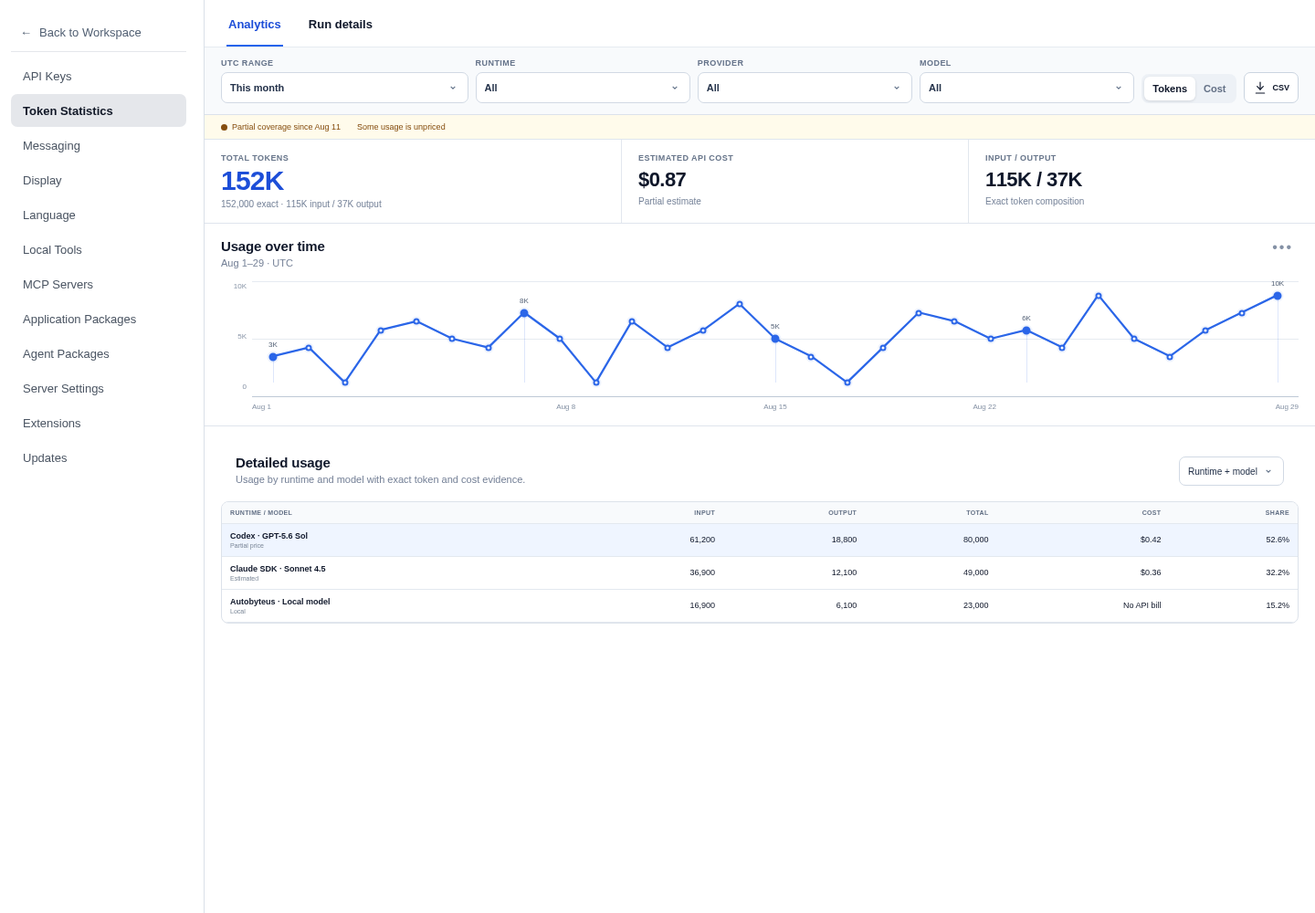
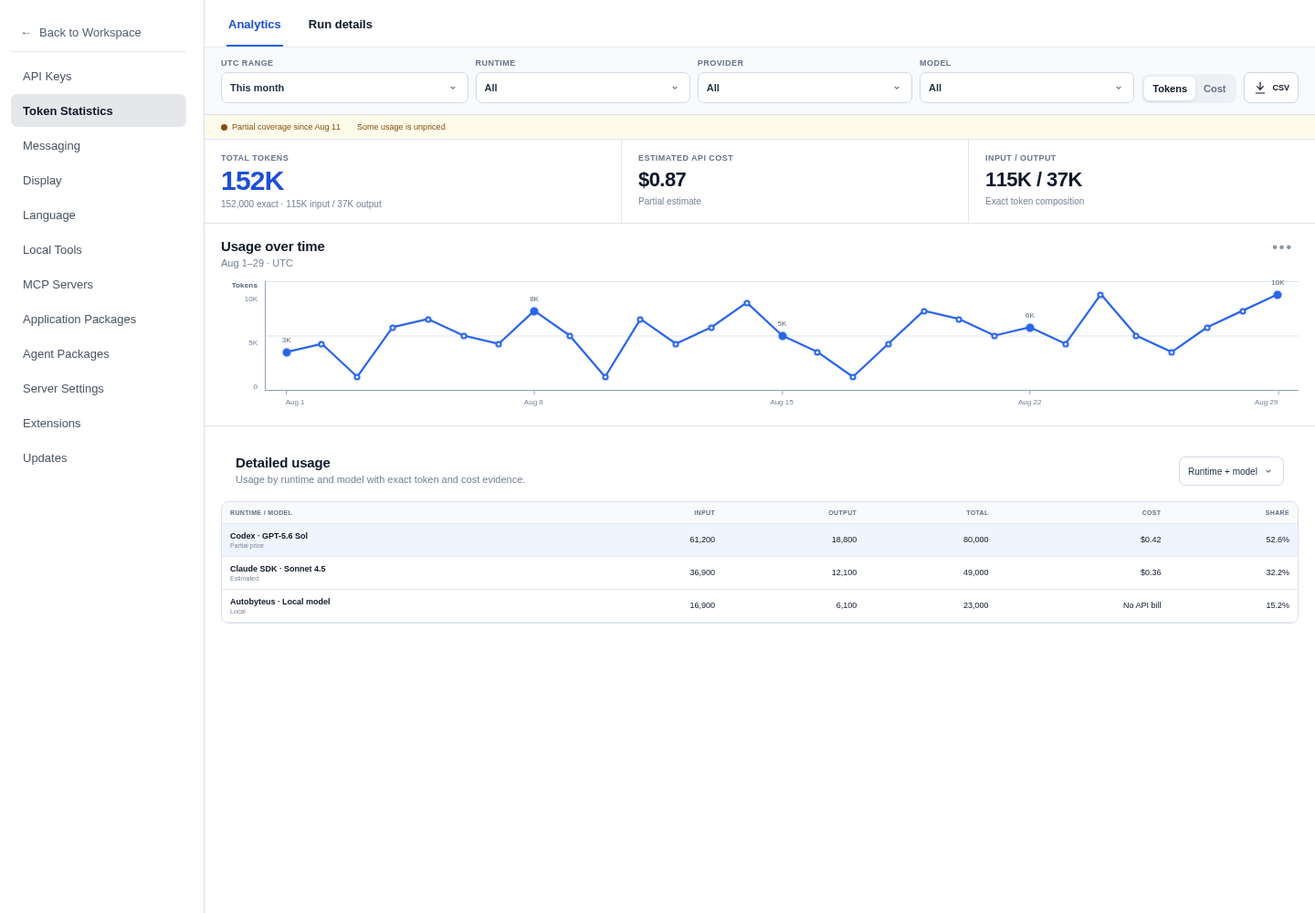
prototype: clarify trend chart axes

diff --git a/visualizers/REQPKG-TSUI-001/src/styles.css b/visualizers/REQPKG-TSUI-001/src/styles.css
@@ -133,22 +133,29 @@ h1 { font-size: clamp(28px, 3.5vw, 44px); letter-spacing: -.035em; line-height: 
 .comparison-note span { color: #718096; font-size: 9px; }
 .focus-analysis-grid { display: grid; gap: 14px; grid-template-columns: minmax(0, 1.55fr) minmax(250px, .75fr); margin-bottom: 14px; }
 .focus-analysis-grid.essentials-only { grid-template-columns: minmax(0, 1fr); }
-.trend-chart { display: grid; grid-template-columns: 34px minmax(0, 1fr); height: 190px; margin-top: 12px; }
+.trend-chart { display: grid; grid-template-columns: 48px minmax(0, 1fr); height: 190px; margin-top: 12px; }
 .trend-chart.compact { height: 142px; }
-.chart-y { color: #8a96a8; display: flex; flex-direction: column; font-size: 8px; justify-content: space-between; padding: 1px 6px 22px 0; text-align: right; }
+.chart-y-axis { color: #738096; display: flex; flex-direction: column; font-size: 8px; padding: 0 8px 22px 0; text-align: right; }
+.chart-y-axis > strong { color: #526176; font-size: 8px; font-weight: 750; letter-spacing: .02em; margin-bottom: 6px; white-space: nowrap; }
+.chart-y-labels { display: flex; flex: 1; flex-direction: column; justify-content: space-between; }
 .line-chart-shell { display: flex; flex-direction: column; min-width: 0; }
-.line-plot { background-image: linear-gradient(#e6ebf1 1px, transparent 1px); background-size: 100% 50%; border-bottom: 1px solid #bfc9d6; flex: 1; min-height: 0; position: relative; }
+.line-plot { background-image: linear-gradient(#dfe5ed 1px, transparent 1px); background-size: 100% 50%; border-bottom: 1px solid #91a0b4; border-left: 1px solid #91a0b4; flex: 1; min-height: 0; position: relative; }
 .trend-line-svg { inset: 0; overflow: visible; position: absolute; width: 100%; height: 100%; }
 .trend-line { fill: none; stroke: #2b66e8; stroke-linecap: round; stroke-linejoin: round; stroke-width: 2.25; }
 .trend-point-wrap { bottom: 12%; position: absolute; width: 0; }
 .trend-point { background: #fff; border: 2px solid #2b66e8; border-radius: 50%; box-shadow: 0 0 0 2px rgba(43, 102, 232, .08); display: block; height: 7px; position: absolute; transform: translate(-50%, -50%); width: 7px; }
 .trend-point-wrap.emphasis .trend-point { background: #2b66e8; height: 9px; width: 9px; }
-.trend-stem { background: rgba(43, 102, 232, .16); bottom: 0; left: 0; position: absolute; top: 4px; width: 1px; }
 .trend-point-value { color: #536176; font-size: 8px; left: 0; position: absolute; top: -18px; transform: translateX(-50%); white-space: nowrap; }
-.line-x-labels { color: #8390a3; display: grid; font-size: 8px; grid-template-columns: repeat(5, 1fr); padding-top: 6px; }
-.line-x-labels span { text-align: center; white-space: nowrap; }
-.line-x-labels span:first-child { text-align: left; }
-.line-x-labels span:last-child { text-align: right; }
+.line-x-labels { color: #738096; font-size: 8px; height: 22px; position: relative; }
+.line-x-labels span { padding-top: 8px; position: absolute; transform: translateX(-50%); white-space: nowrap; }
+.line-x-labels span::before { background: #91a0b4; content: ""; height: 4px; left: 50%; position: absolute; top: 0; width: 1px; }
+.line-x-labels span:nth-child(1) { left: 2%; transform: none; }
+.line-x-labels span:nth-child(1)::before { left: 0; }
+.line-x-labels span:nth-child(2) { left: 26%; }
+.line-x-labels span:nth-child(3) { left: 50%; }
+.line-x-labels span:nth-child(4) { left: 74%; }
+.line-x-labels span:nth-child(5) { left: 98%; transform: translateX(-100%); }
+.line-x-labels span:nth-child(5)::before { left: 100%; }
 .share-track { background: #e8edf4; border-radius: 99px; grid-column: 1 / -1; height: 7px; overflow: hidden; }
 .share-track span { background: #2563eb; border-radius: inherit; display: block; height: 100%; }
 .text-action { align-items: center; background: transparent; border: 0; color: #2563eb; cursor: pointer; display: inline-flex; font-size: 10px; font-weight: 700; gap: 6px; margin-top: 15px; padding: 0; }

diff --git a/visualizers/REQPKG-TSUI-001/src/App.tsx b/visualizers/REQPKG-TSUI-001/src/App.tsx
@@ -282,19 +282,21 @@ function TrendChart({ compact = false, filtered, metric, full }: { compact?: boo
   const formatValue = (value: number) => metric === "tokens" ? `${value}K` : `$${value.toFixed(2)}`;
   const exactSeries = points.map((point) => `Aug ${point.day}: ${metric === "tokens" ? `${point.value * 1000} tokens` : `$${point.value.toFixed(4)}`}`).join(", ");
   return <div className={`trend-chart ${compact ? "compact" : ""}`}>
-    <div className="chart-y"><span>{formatValue(max)}</span><span>{formatValue(max / 2)}</span><span>0</span></div>
-    <div className="line-chart-shell" role="img" aria-label={`${metric === "tokens" ? "Token" : "Estimated cost"} usage across 29 daily UTC buckets. ${exactSeries}`}>
+    <div aria-hidden="true" className="chart-y-axis">
+      <strong>{metric === "tokens" ? "Tokens" : "Cost (USD)"}</strong>
+      <div className="chart-y-labels"><span>{formatValue(max)}</span><span>{formatValue(max / 2)}</span><span>0</span></div>
+    </div>
+    <div className="line-chart-shell" role="img" aria-label={`${metric === "tokens" ? "Token" : "Estimated cost"} usage across 29 daily UTC buckets. X-axis: date in UTC. Y-axis: ${metric === "tokens" ? "tokens" : "estimated cost in USD"}. ${exactSeries}`}>
       <div className="line-plot">
         <svg aria-hidden="true" className="trend-line-svg" preserveAspectRatio="none" viewBox="0 0 100 100">
           <path className="trend-line" d={linePath} vectorEffect="non-scaling-stroke" />
         </svg>
         {points.map((point) => <span className={`trend-point-wrap ${emphasisDays.has(point.day) ? "emphasis" : ""}`} key={point.day} style={{ left: `${point.x}%`, top: `${point.y}%` }}>
-          {emphasisDays.has(point.day) && <span className="trend-stem" />}
           {emphasisDays.has(point.day) && point.value > 0 && <span className="trend-point-value">{formatValue(point.value)}</span>}
           <span className="trend-point" />
         </span>)}
       </div>
-      <div className="line-x-labels"><span>Aug 1</span><span>Aug 8</span><span>Aug 15</span><span>Aug 22</span><span>Aug 29</span></div>
+      <div aria-hidden="true" className="line-x-labels"><span>Aug 1</span><span>Aug 8</span><span>Aug 15</span><span>Aug 22</span><span>Aug 29</span></div>
     </div>
   </div>;
 }

diff --git a/tickets/in-progress/REQPKG-TSUI-001/prototype-ticket.md b/tickets/in-progress/REQPKG-TSUI-001/prototype-ticket.md
@@ -28,9 +28,9 @@
 - Product acceptance result and date: Accepted 2026-08-29; see `/home/autobyteus/workspace/autobyteus-web-prototype-worktrees/REQPKG-TSUI-001/tickets/in-progress/REQPKG-TSUI-001/baseline-acceptance.md`.
 - Accepted Token Statistics baseline revision: `6ba98942c669329f70ba902db4a2880375ad52ad`
 - Baseline metadata revision: `16638137bdb8ebe627507dac6c3c8bdbc5edf9d6`
-- Prototype revision containing the current `RV-005` visualizer, feasibility audit, and evidence: `fc6bace64c964ddcd1642a2b08f5a5e61703a86f`
+- Prototype revision containing the current `RV-006` visualizer, feasibility audit, and evidence: `Pending RV-006 commit`
 - Ticket folder: `/home/autobyteus/workspace/autobyteus-web-prototype-worktrees/REQPKG-TSUI-001/tickets/in-progress/REQPKG-TSUI-001`
-- Integration target and result: The accepted baseline commits `6ba98942c669329f70ba902db4a2880375ad52ad` and `16638137bdb8ebe627507dac6c3c8bdbc5edf9d6` are on `origin/personal`. The exploratory `RV-005` work remains only on `prototype/reqpkg-tsui-001` while the canonical Requirement Impact is unresolved.
+- Integration target and result: The accepted baseline commits `6ba98942c669329f70ba902db4a2880375ad52ad` and `16638137bdb8ebe627507dac6c3c8bdbc5edf9d6` are on `origin/personal`. The exploratory `RV-006` work remains only on `prototype/reqpkg-tsui-001` while the canonical Requirement Impact is unresolved.
 - Cleanup result: Deferred. Retain the active worktree and review runtimes while status is `Blocked` on Requirements Engineering revision.
 
 ## Runtime Isolation
@@ -48,29 +48,29 @@
 
 - UI/UX specification: Not applicable in exploratory Requirements Visualization mode.
 - Requirements-visualization brief: `/home/autobyteus/workspace/autobyteus-web-prototype-worktrees/REQPKG-TSUI-001/tickets/in-progress/REQPKG-TSUI-001/requirements-visualization-brief.md`
-- Requirements-visualization design plan: `/home/autobyteus/workspace/autobyteus-web-prototype-worktrees/REQPKG-TSUI-001/tickets/in-progress/REQPKG-TSUI-001/requirements-visualization-design-plan.md`; revision `RV-005`, status `Ready to Build`.
-- Requirements-visualization review: `/home/autobyteus/workspace/autobyteus-web-prototype-worktrees/REQPKG-TSUI-001/tickets/in-progress/REQPKG-TSUI-001/requirements-visualization-review.md`; revision `RV-005`, status `Ready for Review — Requirement Impact`.
+- Requirements-visualization design plan: `/home/autobyteus/workspace/autobyteus-web-prototype-worktrees/REQPKG-TSUI-001/tickets/in-progress/REQPKG-TSUI-001/requirements-visualization-design-plan.md`; revision `RV-006`, status `Ready to Build`.
+- Requirements-visualization review: `/home/autobyteus/workspace/autobyteus-web-prototype-worktrees/REQPKG-TSUI-001/tickets/in-progress/REQPKG-TSUI-001/requirements-visualization-review.md`; revision `RV-006`, status `Ready for Review — Requirement Impact`.
 - Current-contract feasibility audit: `/home/autobyteus/workspace/autobyteus-web-prototype-worktrees/REQPKG-TSUI-001/tickets/in-progress/REQPKG-TSUI-001/implementation-feasibility-audit.md`; classification `Achievable with current source-pin data and GraphQL contracts after correction`.
-- Requirement-impact record: `/home/autobyteus/workspace/autobyteus-web-prototype-worktrees/REQPKG-TSUI-001/tickets/in-progress/REQPKG-TSUI-001/requirement-impact.md`; `RI-001` records the user-directed removals represented in `RV-005` and still requires canonical Requirements Engineering revision.
+- Requirement-impact record: `/home/autobyteus/workspace/autobyteus-web-prototype-worktrees/REQPKG-TSUI-001/tickets/in-progress/REQPKG-TSUI-001/requirement-impact.md`; `RI-001` records the user-directed removals retained in `RV-006` and still requires canonical Requirements Engineering revision.
 - Visualizer source: `/home/autobyteus/workspace/autobyteus-web-prototype-worktrees/REQPKG-TSUI-001/visualizers/REQPKG-TSUI-001`
 - Future-state visual-reference directory: `/home/autobyteus/workspace/autobyteus-web-prototype-worktrees/REQPKG-TSUI-001/tickets/in-progress/REQPKG-TSUI-001/visual-references`
 - Current-state comparison evidence: `/home/autobyteus/workspace/autobyteus-web-prototype-worktrees/REQPKG-TSUI-001/evidence/token-statistics-refresh`
 - Visualizer template revision: Agent repository `a6af4fd689a1c6cb1ec1f06c07d0b6011a8c8679`; template last changed in `e9a158b4cb80d4fa54d0c495d6ba862a34cf874d`.
 - Active capabilities: React, Vite, TypeScript, CSS, inline SVG, deterministic local state, Playwright browser validation.
 - Omitted optional capabilities: Motion, Three.js, React Three Fiber, and Drei; the comparison does not depend on animation or spatial reasoning.
-- Validation commands and results: `npm run build` passed; `npm run validate` passed `18/18`; Chromium desktop `1440x1000`, constrained composition, actual narrow `390x844`, UTC/English/light/reduced-motion; zero browser errors; no page-level narrow overflow; named controls; no redundant `h1`; zero active animations; local export status; keyboard navigation resize; Run-details model columns limited to current-query fields; Usage over time verified as 29 daily points, one line, and zero bars; both directions contain zero forbidden prior/comparison/driver wording.
+- Validation commands and results: `npm run build` passed; `npm run validate` passed `18/18`; Chromium desktop `1440x1000`, constrained composition, actual narrow `390x844`, UTC/English/light/reduced-motion; zero browser errors; no page-level narrow overflow; named controls; no redundant `h1`; zero active animations; local export status; keyboard navigation resize; Run-details model columns limited to current-query fields; Usage over time verified with explicit X/Y axes, 29 daily points, one line, zero bars, and zero point stems; both directions contain zero forbidden prior/comparison/driver wording.
 - Validation evidence: `/home/autobyteus/workspace/autobyteus-web-prototype-worktrees/REQPKG-TSUI-001/tickets/in-progress/REQPKG-TSUI-001/validation`; browser `18/18` pass and pinned-source contract audit `PASS`.
-- User-confirmation reference: User feedback on 2026-08-29 rejected visible Requirements Visualization metadata/chrome (`RV-002`), required explicit proof that downstream implementation can use the current data structure without invented facts (`RV-003`), preferred a point-marked line/curve over vertical bars (`RV-004`), and explicitly removed prior-period and dominant/usage-driver presentation (`RV-005`).
+- User-confirmation reference: User feedback on 2026-08-29 rejected visible Requirements Visualization metadata/chrome (`RV-002`), required explicit current-contract feasibility (`RV-003`), preferred a point-marked line over bars (`RV-004`), removed prior-period and dominant/usage-driver presentation (`RV-005`), and requested conventional X/Y axes without unexplained vertical marks (`RV-006`).
 - Mocked boundaries and known limitations: Synthetic locally resettable fixtures; no production runtime or persistent export. Loading/error/empty/local/mixed-currency/localization/custom-date/sorting permutations remain established by the accepted baseline but are not exhaustively re-rendered in this focused visual comparison. This Requirements Visualization must not be treated as a complete implementation-ready final prototype.
 
 ## Outcome And Handoff
 
 - Current outcome: `Requirement Impact`
-- Completed behavior and evidence: Accepted Token Statistics baseline is durably integrated through `origin/personal` revision `16638137bdb8ebe627507dac6c3c8bdbc5edf9d6`. `RV-005` keeps the clean product-only URLs and point-marked daily line, removes the prior-period percentage/unavailable state, removes the standalone dominant-contributor panel, and replaces visible `driver` terminology with `Detailed usage`; `18/18` browser checks pass.
+- Completed behavior and evidence: Accepted Token Statistics baseline is durably integrated through `origin/personal` revision `16638137bdb8ebe627507dac6c3c8bdbc5edf9d6`. `RV-006` keeps the stripped `RV-005` hierarchy and gives the point-marked daily line explicit labeled axes and date ticks while removing the confusing short vertical point guides; `18/18` browser checks pass.
 - First-view simplicity evidence: Product-only DOM and screenshots contain no visualization heading, direction/journey selector, selection strip, reset control, explanatory footer, prior-period callout, dominant-contributor panel, or `driver` wording. Monthly usage, cost/status, input/output composition, and daily trend are immediately scannable.
 - Motion/comprehension evidence: No decision-relevant motion; stable states persist. Automated checks establish the interaction/result relationship, but human preference and comprehension remain unconfirmed.
 - Remaining product decisions: Canonical labels/definitions for uncached/standard input, cached input, cache hit rate, and output; whether runtime/provider/model grouping and `Detailed usage` remain visible or move behind deeper disclosure; existing `DEC-001`–`DEC-004` consequences.
-- Next expected action: Requirements Engineering records the user-directed removals in the affected requirements from `RI-001` and resolves the remaining cache/input terminology and grouping scope. Do not treat `RV-005` as a final implementation direction.
+- Next expected action: Requirements Engineering records the user-directed removals in the affected requirements from `RI-001` and resolves the remaining cache/input terminology and grouping scope. Do not treat `RV-006` as a final implementation direction.
 - Handoff outcome from `get_handoff_rules`: `Requirement Impact` matched the Requirements Engineering resolution route.
 - Matched recipient address, when a rule applies: `/requirements_engineering_team/requirements_engineer`
 - Return context when no matching rule applies: Return the review-ready package to the user or calling workflow.

diff --git a/tickets/in-progress/REQPKG-TSUI-001/requirements-visualization-design-plan.md b/tickets/in-progress/REQPKG-TSUI-001/requirements-visualization-design-plan.md
@@ -1,29 +1,29 @@
 # Requirements Visualization Design Plan
 
 - Package / ticket ID: `REQPKG-TSUI-001`
-- Revision: `RV-005`
-- Decision question: Does a stripped hierarchy centered on monthly totals and daily Tokens/Cost trend better match the user's actual questions than contributor and prior-period callouts?
-- One-sentence user takeaway: The user can immediately read monthly tokens, estimated cost, and daily change without first interpreting `driver` terminology or an unwanted period-over-period percentage.
-- Chosen visual form: Two clean product-only density treatments selected by URL, both sharing the same stripped information hierarchy. Usage over time is a line chart with point markers; prior-period comparison and the standalone contributor callout are absent; exact identity evidence uses the secondary label `Detailed usage`.
+- Revision: `RV-006`
+- Decision question: Can the daily Tokens/Cost trend read as a conventional chart immediately, with unmistakable X and Y axes and no unexplained vertical marks?
+- One-sentence user takeaway: The user can identify date on the X-axis and Tokens or Cost on the Y-axis immediately, while every daily point remains exact and inspectable.
+- Chosen visual form: Two clean product-only density treatments selected by URL, both sharing the same stripped information hierarchy. Usage over time uses a labeled Y-axis, a visible baseline and date ticks on the X-axis, horizontal value guides, one point per returned bucket, and no short vertical point stems.
 - Why this is the smallest suitable representation: User feedback establishes that persistent visualization chrome obscures the product decision. Two clean URLs preserve exact composition and let the product itself carry the comparison; state-specific evidence is reached through the proposed controls rather than an external journey navigator.
-- Alternatives considered and rejected: Persistent review headers/selectors were rejected in RV-001; a floating review drawer still adds non-product surface; static screenshots remove interaction; side-by-side pages shrink content; animation is irrelevant. Vertical bars were rejected in RV-004. In RV-005, green/positive prior-period callouts and contributor/`driver` callouts are rejected because the user does not consider them primary and the terminology requires explanation.
+- Alternatives considered and rejected: Persistent review chrome, bars, prior/comparison callouts, and contributor/`driver` callouts remain rejected by earlier revisions. Floating Y values without a vertical axis are rejected because they look detached from the plot. Short point-to-baseline stems are rejected because they resemble accidental dotted or bar-like marks rather than useful trend evidence.
 - Implementation technology selected after the design gate: Ticket-scoped React/Vite/TypeScript visualizer copied from the required scaffold, using plain React state and CSS only. `motion`, Three.js, React Three Fiber, and Drei remain installed but intentionally unused.
 
 ## Visible Model
 
 - Initial view: A full-viewport Settings > Token Statistics product surface, Direction A by default, with monthly total, cost/status, coverage, daily trend, and compact controls only in the primary canvas.
-- Actors or objects to show: Settings navigation and manual resize handle; Analytics/Run-details tabs; compact product controls; monthly total and cost/status; a daily bucket line with point markers; secondary `Detailed usage` evidence.
+- Actors or objects to show: Settings navigation and manual resize handle; Analytics/Run-details tabs; compact product controls; monthly total and cost/status; a daily bucket line with point markers, labeled Y-axis, horizontal guides, and a date-ticked X-axis; secondary `Detailed usage` evidence.
 - States to show: Partial coverage; full coverage; filters open; exact usage evidence open; Run details; constrained width.
 - Relationship or causal distinction: Separate clean Direction A/B URLs change density while the stripped priority and data truth remain fixed; product-native actions expose filter/evidence/Run-details state.
-- Trend truth rule: Each marker corresponds to one exact returned bucket. The connecting line supports trend perception but does not replace the exact bucket value or accessible text alternative. No invented interpolation is used for accounting.
-- Details intentionally hidden or deferred: Secondary filter fields remain behind `Filters`; runtime/model identity is labeled `Detailed usage` and accounting metadata remains behind row evidence; Run child/member rows remain behind expansion; prior-period comparison is intentionally absent from RV-005 per explicit user direction.
+- Trend truth rule: Each marker corresponds to one exact returned bucket. The connecting line supports trend perception but does not replace the exact bucket value or accessible text alternative. The axis scale is derived from the displayed fixture, metric switching changes the Y-axis unit, and no invented interpolation is used for accounting.
+- Details intentionally hidden or deferred: Secondary filter fields remain behind `Filters`; runtime/model identity is labeled `Detailed usage` and accounting metadata remains behind row evidence; Run child/member rows remain behind expansion; prior-period comparison remains intentionally absent in RV-006 per explicit user direction.
 
 ## Motion Design
 
 - Motion purpose, or why motion is not needed: No decision-relevant motion is needed. Immediate, labeled stable-state replacement makes composition comparison easier and avoids requiring memory of animation phases.
 - Motion phases and order: Not applicable; only brief nonessential CSS hover/focus feedback.
 - Teaching pace and consequence dwell: Stable states remain until the reviewer changes direction or journey.
-- Pause, replay, reset, step-through, slow, or skip controls: Not applicable to stable-state comparison. Reloading a clean URL restores its default partial/no-comparison fixture and navigation width.
+- Pause, replay, reset, step-through, slow, or skip controls: Not applicable to stable-state comparison. Reloading a clean URL restores its default partial-coverage fixture and navigation width.
 - Reduced-motion and stable-state equivalent: All decision meaning is already available in stable states; `prefers-reduced-motion` disables cosmetic transitions.
 - Which changes must not happen instantaneously: None; no causal path is being taught.
 
@@ -42,7 +42,7 @@
 - What text is necessary to name the model without repeating it? Product labels and truthful status copy only. Direction/tradeoff and mock-boundary text stays outside the rendered product in the review package.
 - How can the user pause, replay, reset, or understand the result without motion? States never auto-advance; refresh restores a deterministic clean product state, and separate URLs preserve each direction without hidden animation history.
 - Can a first-time observer follow the full motion sequence at the chosen teaching pace? Not applicable; no teaching motion is used.
-- What will demonstrate that the user understood the intended relationship? The reviewer can identify monthly tokens, estimated cost, and the daily Tokens/Cost trend without asking what a `driver` is, then decide whether `Detailed usage` is still useful as secondary evidence.
+- What will demonstrate that the user understood the intended relationship? The reviewer can identify date on X, the selected Tokens/Cost unit on Y, and the daily trend without asking what the floating numbers or short vertical marks mean.
 
 ## Truthful Boundaries
 
@@ -60,5 +60,5 @@
 - [x] Decision-relevant motion is slow enough to follow, holds the consequence, and avoids unrelated simultaneous movement. (No decision-relevant motion is used; stable state persists.)
 - [x] The same decision-relevant meaning is available without motion or 3D.
 - Status: `Ready to Build`
-- Remaining design concern: Canonical requirements still preserve dominant-contributor and prior-comparison behavior; RV-005 is user-directed Requirement Impact evidence until Requirements Engineering updates them. Final implementation must retain exact bucket/accounting truth and any secondary evidence that remains required.
-- Evidence for the decision: The user explicitly requested removal of the 28% prior-period callout and dominant/usage-driver wording after asking what those concepts meant. The accepted baseline and feasibility audit preserve the current data truth while Requirements Engineering resolves the canonical impact.
+- Remaining design concern: Canonical requirements still preserve dominant-contributor and prior-comparison behavior; RV-006 retains the user-directed Requirement Impact evidence until Requirements Engineering updates them. Final implementation must retain exact bucket/accounting truth and any secondary evidence that remains required.
+- Evidence for the decision: The user explicitly described the missing Y-axis as strange and called out the small vertical marks as confusing. Conventional axes improve chart literacy without changing the data contract or accounting truth.

diff --git a/tickets/in-progress/REQPKG-TSUI-001/requirements-visualization-review.md b/tickets/in-progress/REQPKG-TSUI-001/requirements-visualization-review.md
@@ -1,15 +1,15 @@
 # Requirements Visualization Review
 
 - Package / ticket ID: `REQPKG-TSUI-001`
-- Visualization revision: `RV-005`
-- Product revision containing the current visualizer and evidence: `fc6bace64c964ddcd1642a2b08f5a5e61703a86f`
+- Visualization revision: `RV-006`
+- Product revision containing the current visualizer and evidence: `Pending RV-006 commit`
 - Review URLs:
   - Direction A — Focused hierarchy: `http://127.0.0.1:3262/?direction=focus`
   - Direction B — Dense explorer: `http://127.0.0.1:3262/?direction=dense`
 - Source path: `/home/autobyteus/workspace/autobyteus-web-prototype-worktrees/REQPKG-TSUI-001/visualizers/REQPKG-TSUI-001`
 - Design plan path: `/home/autobyteus/workspace/autobyteus-web-prototype-worktrees/REQPKG-TSUI-001/tickets/in-progress/REQPKG-TSUI-001/requirements-visualization-design-plan.md`
 - Requirements / behavior IDs: `BEH-001`–`BEH-006`; `REQ-001`–`REQ-014`; `AC-001`–`AC-014`; `DEC-001`–`DEC-004`
-- Decision question: Does the stripped hierarchy make monthly totals, cost, and daily Tokens/Cost usage immediately understandable without prior-period or contributor terminology?
+- Decision question: Does the stripped hierarchy make monthly totals and the daily Tokens/Cost trend immediately understandable with unmistakable conventional axes?
 - Design gate status: `Ready to Build`
 - Review status: `Ready for Review — Requirement Impact`
 - Reviewer / feedback source: User feedback received 2026-08-29; Requirements Engineering owns the canonical clarification loop.
@@ -20,19 +20,21 @@
 - States: Partial coverage; full coverage; filtered one-result state; exact evidence disclosed; Run details with expanded team rows; constrained desktop composition; actual `390x844` narrow viewport.
 - Interactions: UTC range selection; compact filter disclosure/application; Tokens/Cost controls; local export feedback; row evidence disclosure; Analytics/Run-details tab transition; task/model grouping; team-row expansion; pointer/keyboard Settings-navigation resizing.
 - User-directed removals: The `+28.2% from prior period` callout, unavailable prior-period messaging, the standalone dominant-contributor panel, and all visible `driver` terminology are absent in both directions and every validated state.
+- Axis correction: The trend has a labeled Tokens/Cost Y-axis with `max / midpoint / 0` values, a visible vertical axis line, a visible horizontal baseline, and five date ticks on the X-axis. The previously confusing short vertical point guides are removed.
 - Remaining secondary identity evidence: The exact runtime/model table remains under the plain label `Detailed usage`; opening a row reveals input, output, cache-read, thinking, cost status, and currency evidence.
 - Animation or 3D behavior: None. The decision is compositional and every state is stable.
 - Motion pacing and consequence dwell: Not applicable; changed states remain visible until the user acts again or reloads.
 - Pause / replay / reset / step / slow controls exercised: Not applicable for motion. Reloading either clean URL restores its deterministic partial-coverage state; deterministic `scene` parameters support evidence capture.
 - Mocked boundaries: Synthetic totals, costs, daily buckets, coverage/pricing statuses, filters, detailed-usage rows, runs, CSV feedback, and navigation width. No production query, persistence, accounting recomputation, customer data, credential, or live service is used.
 - Accessibility or non-motion fallback: All controls are named; tabs and metric groups expose roles/state; the navigation separator is keyboard operable; export uses a live status; reduced-motion mode has zero active animation; meaning does not depend on motion.
-- Plan fidelity or intentional deviations: Matches design plan `RV-005`. The product-only treatment, current-contract correction, and point-marked daily line remain; the rejected prior/contributor callouts are removed, the chart receives the full analytical width, and identity evidence is secondary.
+- Plan fidelity or intentional deviations: Matches design plan `RV-006`. The product-only treatment, current-contract correction, point-marked daily line, and stripped hierarchy remain; conventional axes replace floating Y values and the point stems are absent.
 
 ## Validation Evidence
 
 - Browser entry points: `http://127.0.0.1:3262/?direction=focus` and `http://127.0.0.1:3262/?direction=dense`
-- Scenarios exercised: `18/18` checks passed in Chromium with UTC timezone, English locale, light theme, and reduced motion. Both directions were opened through clean URLs; decision states were exercised with product-native controls; the Run-details model table is contract-limited; the trend is a 29-point daily line with zero bars.
+- Scenarios exercised: `18/18` checks passed in Chromium with UTC timezone, English locale, light theme, and reduced motion. Both directions were opened through clean URLs; decision states were exercised with product-native controls; the Run-details model table is contract-limited; the trend is a 29-point daily line with explicit X/Y axes, zero bars, and zero point stems.
 - Language-removal evidence: `VAL-017` audits both clean directions and found zero instances of `Dominant driver`, `Usage drivers`, `Leading drivers`, `Prior period`, unavailable-comparison wording, or `+28.2%`.
+- Axis evidence: `VAL-016` verifies the Y-axis title and three Y labels, five UTC date ticks, solid left/bottom plot axes, accessible X/Y axis descriptions, 29 points, one line, zero bars, and zero short point stems.
 - Responsive checks: Desktop `1440x1000`; constrained product composition; actual `390x844` viewport with `documentWidth === viewport` and critical controls/evidence retained.
 - Reset / replay checks: Each direction/state URL is deterministic; clean direction URLs reload to the stable populated partial-coverage fixture.
 - First-view simplicity check: DOM and screenshot inspection confirm that the visible page contains only the Settings product surface. Monthly tokens, estimated cost/status, input/output composition, and the daily line dominate before `Detailed usage`.
@@ -55,7 +57,7 @@
 
 ## Feedback And Next Action
 
-- Feedback completed in this revision: Remove the `28% from prior period` callout; remove the standalone dominant-contributor concept; stop using `driver` wording; keep the real user questions visually dominant.
+- Feedback completed in this revision: Add an explicit Y-axis and conventional X-axis to the daily line, and remove the small confusing vertical marks. The earlier prior-period and contributor/`driver` removals remain intact.
 - Requirement or scope impact: `Requirement Impact RI-001`. The user decision conflicts with current `REQ-002`, `REQ-004`–`REQ-006`, `REQ-012` and related acceptance criteria that still prescribe dominant-contributor and prior-comparison behavior.
 - Next review question: Is `Detailed usage` useful as secondary exact identity evidence, or should it be deferred further while token/cache composition becomes the next primary design decision?
 - Next expected action: Requirements Engineering records the user’s removals in the canonical requirements and resolves the remaining cache/input terminology and grouping scope. Product Prototyper must not describe `RV-005` as final normative approval.

diff --git a/tickets/in-progress/REQPKG-TSUI-001/requirements-visualization-brief.md b/tickets/in-progress/REQPKG-TSUI-001/requirements-visualization-brief.md
@@ -1,10 +1,10 @@
 # Requirements Visualization Brief
 
 - Package / ticket ID: `REQPKG-TSUI-001`
-- Revision: `RV-005`
+- Revision: `RV-006`
 - Mode: Requirements Visualization
 - Requirements / behavior / acceptance-criteria IDs: `BEH-001`–`BEH-006`; `REQ-001`–`REQ-014`; `AC-001`–`AC-014`; decisions `DEC-001`–`DEC-004`
-- Decision question: Does a stripped Token Statistics hierarchy—monthly totals and daily trend first, with contributor detail secondary and no prior-period percentage or `driver` terminology—match the user's actual questions?
+- Decision question: Does the stripped Token Statistics hierarchy remain immediately legible when the daily trend uses conventional labeled axes and removes unexplained vertical point guides?
 - User or stakeholder who must understand or decide: The user, supported by Requirements Engineering.
 - Critical journey or interaction to visualize: Open two clean product-only URLs—one per direction—against the same populated partial-coverage fixture, then use only product-native controls to exercise full coverage, filters, exact evidence, Run details, and constrained-width behavior before selecting a direction.
 - States that must be shown: Populated partial coverage; full coverage; compact filter interaction; exact usage evidence; Run-details transition; constrained-width composition.
@@ -16,12 +16,12 @@
 - Existing frontend / prototype repository context: Accepted current-experience baseline `6ba98942c669329f70ba902db4a2880375ad52ad` in Product worktree `/home/autobyteus/workspace/autobyteus-web-prototype-worktrees/REQPKG-TSUI-001`, sourced from `origin/personal` pin `9d0fd7c570d58da1af2c7a40279327c8a20a8093`.
 - Success signal: A reviewer can state which direction better supports first-scan comprehension and why, while confirming whether its controls, evidence disclosure, Run-details treatment, and narrow behavior preserve trust and usability.
 - Known unknowns: User preference between the two clean product compositions; whether secondary filters should default open; whether Run details should be fully restyled or only visually bridged.
-- Revision triggers: User feedback rejected the persistent visualization heading, explanatory copy, direction/journey controls, selection summary, and footer as distracting and unlike the intended product (`RV-002`). The user then required explicit proof that the proposal is achievable with the current data structure and does not invent implementation scope (`RV-003`). The user next preferred a line/spline trend with point markers over vertical bars for usage over time (`RV-004`). The user then explicitly directed removal of the prior-period percentage, standalone dominant-contributor panel, and all primary `driver` terminology (`RV-005`).
+- Revision triggers: User feedback rejected the persistent visualization heading, explanatory copy, direction/journey controls, selection summary, and footer as distracting and unlike the intended product (`RV-002`). The user then required explicit proof that downstream implementation can use the current data structure without invented facts (`RV-003`), preferred a point-marked line over bars (`RV-004`), and removed prior-period plus dominant/usage-driver presentation (`RV-005`). The user then found the trend visually incomplete without a clear Y-axis and identified the short vertical point guides as strange (`RV-006`).
 
 ## Visualization Scope
 
 - What the user should be able to see: Only the proposed Settings product surface—no visualization wrapper—while total use, cost/status, coverage, and the daily Tokens/Cost trend dominate the first frame. No prior-period percentage, standalone dominant-contributor panel, or `driver` terminology appears.
-- Usage-over-time form: A line chart with visible point markers for each returned chronological bucket, plus restrained vertical guides and exact labels. Bars are intentionally removed; the line communicates change over time while the points keep each discrete bucket inspectable.
+- Usage-over-time form: A conventional line chart with an explicit labeled Y-axis, a visible X-axis with date ticks, horizontal value guides, and a point marker for each returned chronological bucket. The unexplained short vertical point guides are removed. Bars remain intentionally absent.
 - What the user should be able to interact with: Use product-native range/metric/filter/export/grouping/evidence/tab controls and manually resize the Settings navigation. Direction A/B and deterministic review-state entry are selected by separate clean URL parameters rather than visible prototype chrome.
 - What is mocked: Deterministic token/cost fixtures, dates, chart line/points, provider/model/run identities, filter result, disclosure state, CSV result feedback, and constrained-width frame.
 - What must not be implied as production behavior: No production queries, persistence, accounting recomputation, pricing lookup, CSV storage, source navigation policy change, or approved final UI contract.

diff --git a/tickets/in-progress/REQPKG-TSUI-001/implementation-feasibility-audit.md b/tickets/in-progress/REQPKG-TSUI-001/implementation-feasibility-audit.md
@@ -2,7 +2,7 @@
 
 - Package / ticket ID: `REQPKG-TSUI-001`
 - Audit revision: `FA-001`
-- Visualization revision assessed: `RV-005`
+- Visualization revision assessed: `RV-006`
 - Audit date: 2026-08-29
 - Source authority: `origin/personal` at `9d0fd7c570d58da1af2c7a40279327c8a20a8093`
 - Classification: `Achievable with the current source-pin data and GraphQL contracts after one unsupported illustrative column was removed`
@@ -15,7 +15,7 @@ or historical backfill. Its visible facts are either already returned by the
 current analytics and Run-details queries or are deterministic client-side
 formatting/ranking calculations already present in the source frontend.
 
-This conclusion is about **data and contract feasibility**. `RV-005` remains an
+This conclusion is about **data and contract feasibility**. `RV-006` remains an
 exploratory Requirements Visualization, not a complete implementation-ready
 prototype. A final prototype/implementation must still exercise every existing
 loading, error, empty, coverage, pricing, local, mixed-currency, comparison,
@@ -31,7 +31,7 @@ visualizer's fixed fixture.
 | Total, input, output, and estimated cost | `selectedAggregate` and `TokenUsageCostSummaryAggregateFields` | Format existing exact fields; never recompute accounting from rounded chart values. |
 | Coverage and tracking start | `coverage.status`, `coverage.coverageStart` | Restyle current FULL/PARTIAL/UNAVAILABLE truth; never infer pre-coverage zero. |
 | Price quality, currency, local/no-bill, and missing dimensions | `selectedCostQuality`, row/bucket `costQuality`, aggregate `apiCostStatus` | Preserve current nullable/status-aware rendering. |
-| Usage trend | `trendBuckets`, bucket aggregate/cost quality | Recompose current daily bucket data as a line with explicit points; exact accessible bucket evidence remains required. |
+| Usage trend and axes | `trendBuckets`, bucket aggregate/cost quality | Recompose current daily bucket data as a line with explicit points. X labels come from bucket dates; the Y scale/unit comes from the selected metric and displayed values. No new field is required; exact accessible bucket evidence remains required. |
 | Detailed usage rows and share | `breakdownRows`, row aggregate, `tokenUsageBreakdownShare` | No new query. Runtime/model identity and exact evidence remain available without deriving or labeling one row as dominant. |
 | Runtime/model/provider identity | Breakdown row identity and display-name fields | Reuse current display projection; do not hard-code production names. |
 | Primary exact tokens/cost/share and secondary input/output/cache/reasoning/status/currency | Breakdown row `aggregate` plus `costQuality` | All proposed disclosure fields exist in the current aggregate fragment. |

diff --git a/README.md b/README.md
@@ -85,7 +85,7 @@ corepack pnpm validate:gap-010
 
 ## REQPKG-TSUI-001 Requirements Visualization
 
-Exploratory revision `RV-005` is isolated in the Product ticket worktree on
+Exploratory revision `RV-006` is isolated in the Product ticket worktree on
 `prototype/reqpkg-tsui-001`; it is not integrated into the accepted baseline
 on `origin/personal`. Clean review URLs are:
 
@@ -93,7 +93,9 @@ on `origin/personal`. Clean review URLs are:
 - `http://127.0.0.1:3262/?direction=dense`
 
 This revision keeps monthly usage, estimated cost, input/output composition,
-and the point-marked daily Tokens/Cost line primary. It removes visible
+and the point-marked daily Tokens/Cost line primary. The chart now has an
+explicit Tokens/Cost Y-axis and a date-ticked X-axis, with the confusing short
+vertical point guides removed. It also removes visible
 prior-period comparison, the standalone dominant-contributor callout, and all
 visible `driver` terminology. Exact runtime/model evidence remains secondary
 under `Detailed usage`. The result is classified `Requirement Impact` until

diff --git a/tickets/in-progress/REQPKG-TSUI-001/requirement-impact.md b/tickets/in-progress/REQPKG-TSUI-001/requirement-impact.md
@@ -3,7 +3,7 @@
 - Package / ticket ID: `REQPKG-TSUI-001`
 - Finding ID: `RI-001`
 - Date: 2026-08-29
-- Current visualization revision: `RV-005`
+- Current visualization revision: `RV-006`
 - Classification: `Requirement Impact`
 - Status: User decision is represented in `RV-005`; Requirements Engineering must now revise the conflicting canonical requirements.
 
@@ -21,6 +21,11 @@ directions. Exact runtime/model identity evidence remains secondary under
 `Detailed usage`; it is no longer described as a driver or elevated in a
 standalone contributor card. This does not rewrite the canonical requirements
 owned by Requirements Engineering.
+
+`RV-006` is a presentation-only follow-up: it adds explicit X/Y axes to the
+daily line and removes the confusing short vertical point guides. This uses the
+same existing daily buckets and changes neither the Requirement Impact nor the
+data contract.
 
 ## Exact User Feedback And Meaning
 
